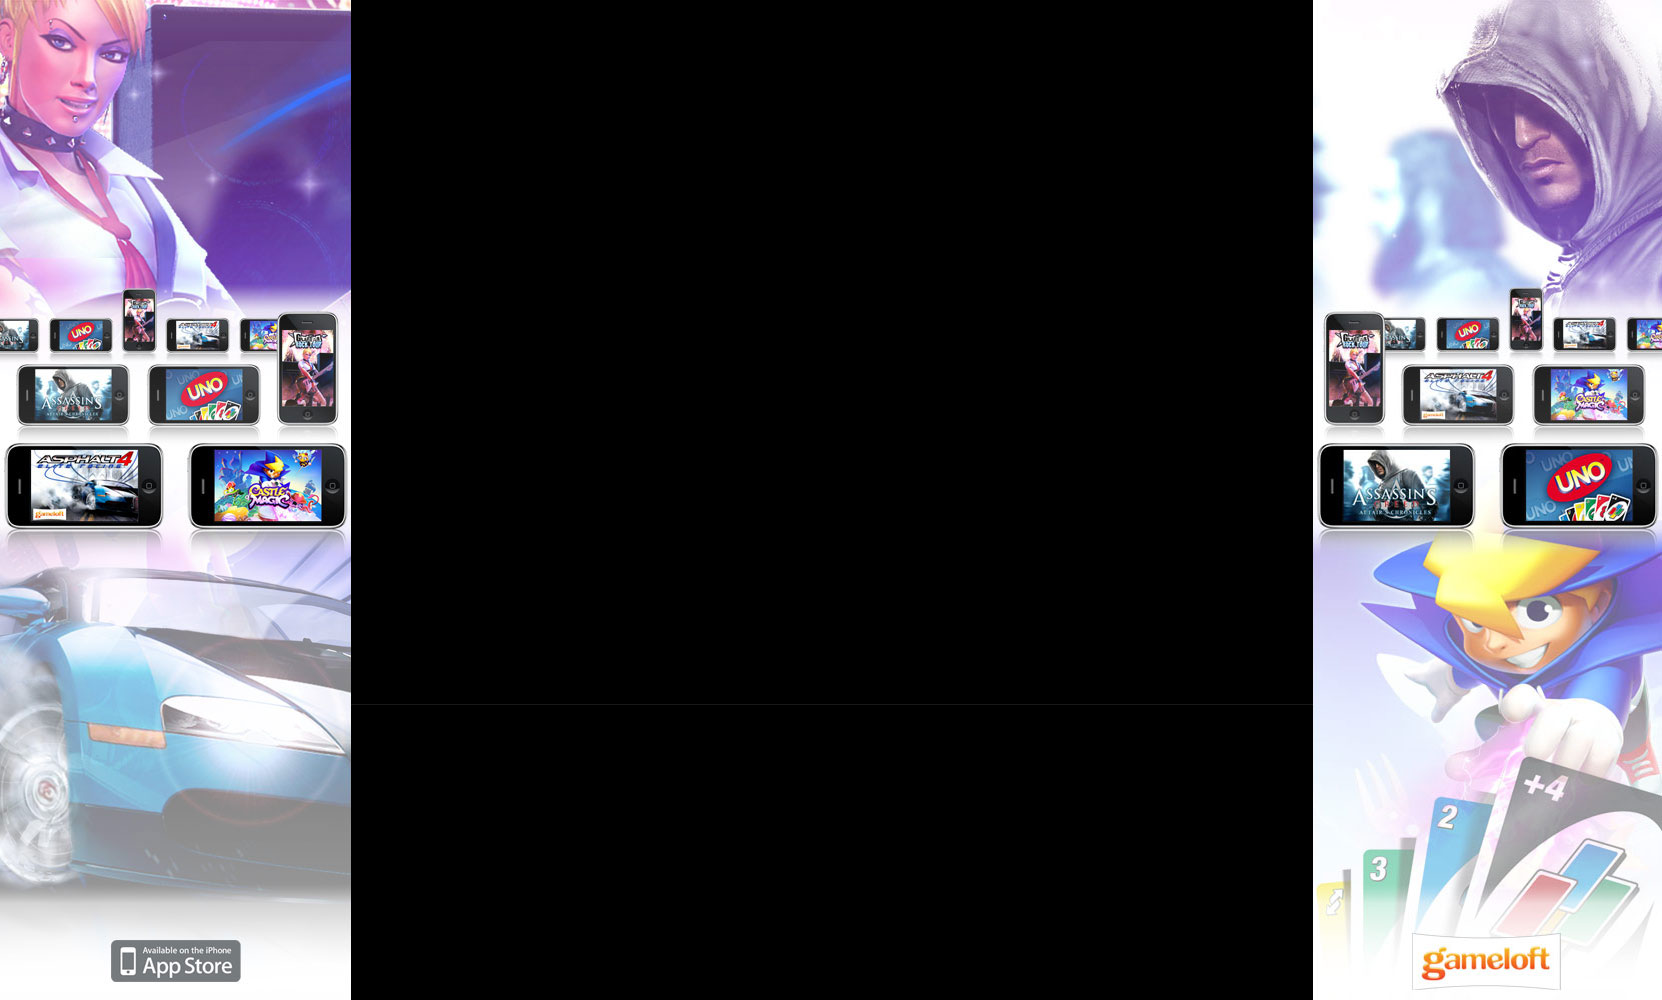
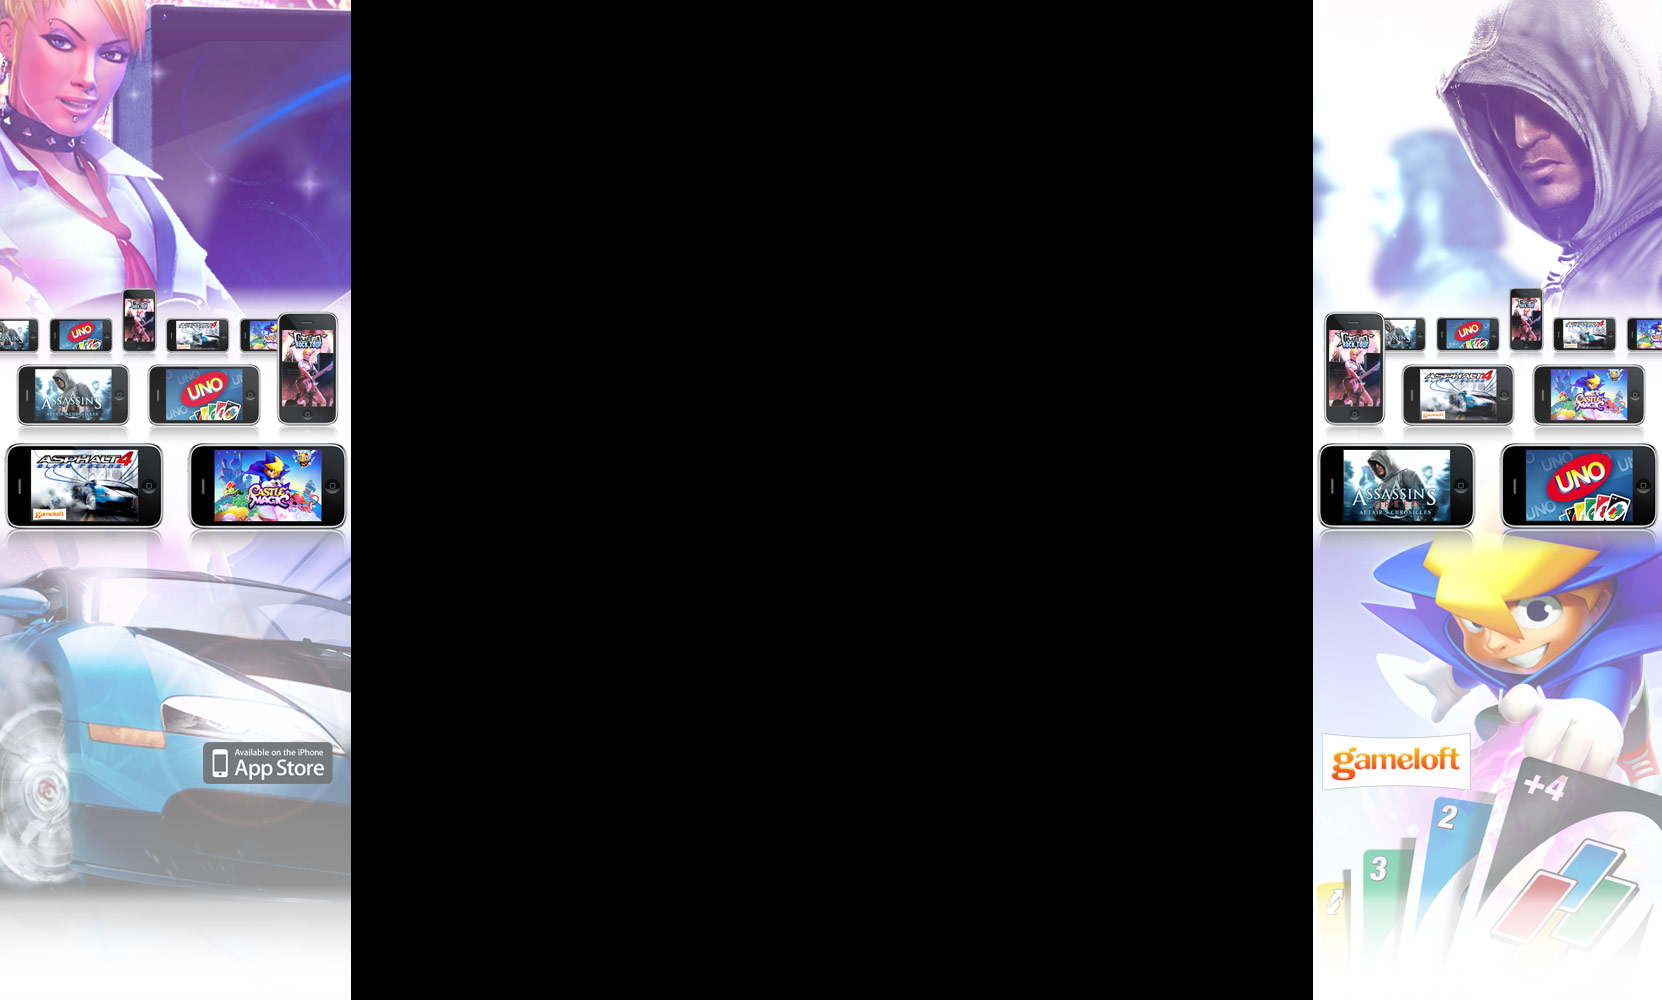
support for skin on all pages, adjustment to iphonegames creative
git-svn-id: https://svn.wikia-code.com/wikia/trunk@10916 e846bd91-c042-42a7-a218-4b65e2c1904d

diff --git a/extensions/wikia/AdSkin/css/iphone_games.css b/extensions/wikia/AdSkin/css/iphone_games.css
@@ -1,11 +1,11 @@
-body.mainpage {
-	background: #000 url(../images/iphone_games.jpg) 50% 51px no-repeat;
+body {
+	background: #000 url(../images/iphone_games.jpg) 50% 51px no-repeat !important;
 }
-body.mainpage #background_strip {
+body #background_strip {
 	background: transparent;
 	border: none;
 }
-body.mainpage .monaco_shrinkwrap {
+body .monaco_shrinkwrap {
 	left: 50%;
 	margin-left: -486px;
 	width: 972px;

diff --git a/extensions/wikia/AdSkin/AdSkin.php b/extensions/wikia/AdSkin/AdSkin.php
@@ -17,11 +17,21 @@ function RenderAdSkin() {
 		return true;
 	}
 
+	//Entire site skins here
+	if (isset($wgAdSkin)) {
+		switch ($wgAdSkin) {
+		case "iphone_games":
+			echo '<link rel="stylesheet" type="text/css" href="'. $wgExtensionsPath .'/wikia/AdSkin/css/iphone_games.css?'. $wgAdSkinVersion .'" />';
+			break;
+		}
+	}
+
 	// Disable if not the main page
 	if (!ArticleAdLogic::isMainPage()) {
 		return true;
 	}
 
+	//Homepage skins here (should be the vast majority)
 	if (isset($wgAdSkin)) {
 		switch ($wgAdSkin) {
 		case "wow_lich_king":
@@ -64,9 +74,6 @@ function RenderAdSkin() {
 			*/
 			echo '<link rel="stylesheet" type="text/css" href="'. $wgExtensionsPath .'/wikia/AdSkin/css/superpages.css?'. $wgAdSkinVersion .'" />';
 			break;
-		case "iphone_games":
-			echo '<link rel="stylesheet" type="text/css" href="'. $wgExtensionsPath .'/wikia/AdSkin/css/iphone_games.css?'. $wgAdSkinVersion .'" />';
-			break;
 		}	
 	}
 
@@ -75,24 +82,32 @@ function RenderAdSkin() {
 
 function RenderAdSkinJS() {
 	global $wgUser, $wgExtensionsPath, $wgAdSkin, $wgAdSkinVersion;
+
+	//Disable for logged-in users
+	if (is_object($wgUser) && $wgUser->isLoggedIn() ){
+		return true;
+	}
 	
+	//Entire site skins here
+	if (isset($wgAdSkin)) {
+		switch ($wgAdSkin) {
+		case "iphone_games":
+			echo '<script type="text/javascript" src="'. $wgExtensionsPath .'/wikia/AdSkin/js/iphone_games.js?'. $wgAdSkinVersion .'"></script>';
+			break;
+		}
+	}
+
 	// Disable if not the main page
 	if (!ArticleAdLogic::isMainPage()) {
 		return true;
 	}
 
-	if (is_object($wgUser) && $wgUser->isLoggedIn() ){
-		return true;
-	}
-
+	//Homepage skins here (should be the vast majority)
 	if (isset($wgAdSkin)) {
 		switch ($wgAdSkin) {
 		case "warhammer":
 			echo '<script type="text/javascript" src="'. $wgExtensionsPath .'/wikia/AdSkin/js/warhammer.js?'. $wgAdSkinVersion .'"></script>';
 			echo '<A HREF="http://ad.doubleclick.net/jump/N2790.Wikia/B3436947.10;sz=1x1;ord='. time() .'?"><IMG SRC="http://ad.doubleclick.net/ad/N2790.Wikia/B3436947.10;sz=1x1;ord='. time() .'?" BORDER=0 WIDTH=1 HEIGHT=1 ALT="Click Here"></A>'; 
-			break;
-		case "iphone_games":
-			echo '<script type="text/javascript" src="'. $wgExtensionsPath .'/wikia/AdSkin/js/iphone_games.js?'. $wgAdSkinVersion .'"></script>';
 			break;
 		}
 
